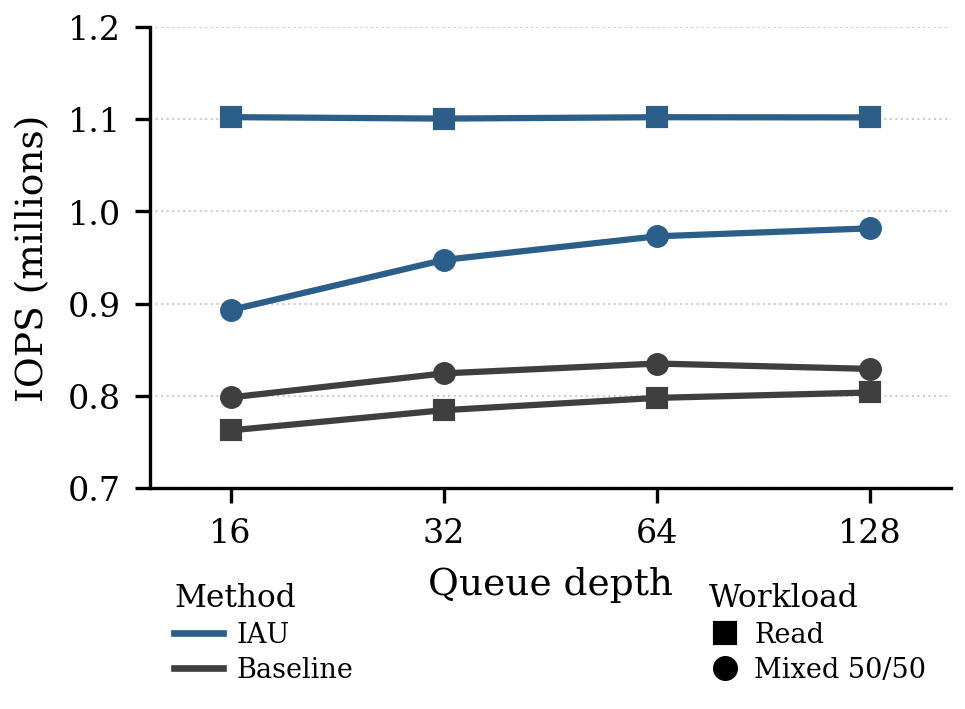
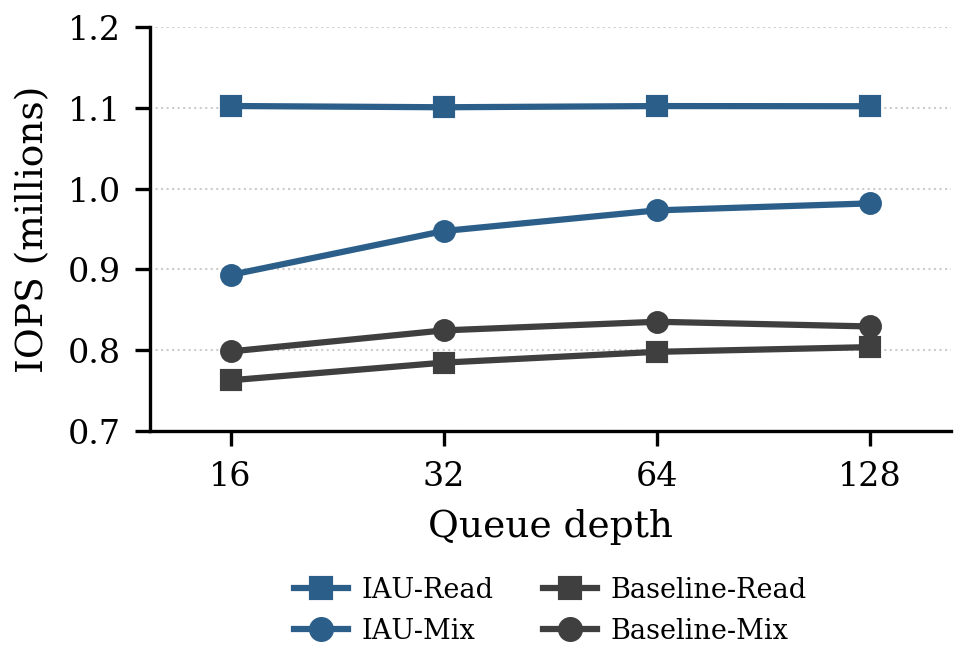
figures: single below-axis legend naming each op-mix curve
Replace the two split Method/Workload legends with one legend placed fully
below the x-axis, arranged in two columns so it does not overlap the axis
labels. Each entry now names a specific curve (IAU-Read, IAU-Mix,
Baseline-Read, Baseline-Mix) and carries that curve's real color and marker,
so every legend glyph maps one-to-one to a line on the plot.

diff --git a/scripts/plot_qd_sweep_opmix.py b/scripts/plot_qd_sweep_opmix.py
@@ -39,11 +39,12 @@ flipped, so op-mix is the sole independent variable.
 
 Encoding: method by color (IAU = accent blue, baseline = dark grey) and
 workload by marker shape (read = square, mixed = circle), so each of the four
-curves is a distinct color-and-shape pair and all lines are solid. The legend
-is split into a Method block (the two colors) and a Workload block (the two
-shapes) so each dimension is named on its own. Style otherwise matches
-scripts/plot_qd_sweep.py: serif, grey palette with one accent (#2b5f8a),
-300 dpi PNG + vector PDF.
+curves is a distinct color-and-shape pair and all lines are solid. A single
+legend sits fully below the x-axis and names each curve directly (IAU-Read,
+IAU-Mix, Baseline-Read, Baseline-Mix), each legend glyph carrying that curve's
+own color and marker so it matches the line on the plot. Style otherwise
+matches scripts/plot_qd_sweep.py: serif, grey palette with one accent
+(#2b5f8a), 300 dpi PNG + vector PDF.
 
 Usage
 -----
@@ -74,7 +75,6 @@ HOST_HZ = 2.0e9
 # Color encodes method, marker shape encodes workload.
 IAU_COLOR = ACCENT
 BASE_COLOR = GREY_DARK
-MARKER_SWATCH = "black"   # neutral colour for the shape legend, so it reads as shape not method
 
 # (label, marker, baseline csv, IAU csv)
 #
@@ -158,28 +158,23 @@ def plot(repo_root: Path, out_prefix: Path) -> None:
     ax.yaxis.grid(True, linestyle=":", linewidth=0.5, color=GREY_LIGHTER)
     ax.set_axisbelow(True)
 
-    # Two labelled legends so each encoding dimension is named on its own:
-    # color = method (IAU vs baseline), marker shape = workload (read vs mixed).
-    method_handles = [
-        Line2D([0], [0], color=IAU_COLOR, linewidth=1.6, label="IAU"),
-        Line2D([0], [0], color=BASE_COLOR, linewidth=1.6, label="Baseline"),
+    # One legend fully below the x-axis, each entry naming a specific curve.
+    # Every handle carries that curve's real color (method) and marker
+    # (workload), so the legend glyph matches the line on the plot.
+    combined_handles = [
+        Line2D([0], [0], color=IAU_COLOR, marker="s", linewidth=1.5,
+               markersize=5, label="IAU-Read"),
+        Line2D([0], [0], color=IAU_COLOR, marker="o", linewidth=1.5,
+               markersize=5, label="IAU-Mix"),
+        Line2D([0], [0], color=BASE_COLOR, marker="s", linewidth=1.5,
+               markersize=5, label="Baseline-Read"),
+        Line2D([0], [0], color=BASE_COLOR, marker="o", linewidth=1.5,
+               markersize=5, label="Baseline-Mix"),
     ]
-    workload_handles = [
-        Line2D([0], [0], color=MARKER_SWATCH, marker=m, linestyle="none",
-               markersize=5, label=lbl)
-        for lbl, m, _, _ in WORKLOADS
-    ]
-    leg_method = ax.legend(handles=method_handles, title="Method",
-                           loc="upper left", bbox_to_anchor=(0.0, -0.15),
-                           frameon=False, handlelength=1.8, handletextpad=0.5,
-                           labelspacing=0.3, title_fontsize=7.5)
-    leg_method._legend_box.align = "left"
-    ax.add_artist(leg_method)
-    leg_work = ax.legend(handles=workload_handles, title="Workload",
-                         loc="upper right", bbox_to_anchor=(1.0, -0.15),
-                         frameon=False, handlelength=1.2, handletextpad=0.5,
-                         labelspacing=0.3, title_fontsize=7.5)
-    leg_work._legend_box.align = "left"
+    ax.legend(handles=combined_handles, loc="upper center",
+              bbox_to_anchor=(0.5, -0.30), frameon=False, ncol=2,
+              handlelength=2.0, handletextpad=0.5, columnspacing=1.8,
+              labelspacing=0.5)
 
     fig.tight_layout()
     out_prefix.parent.mkdir(parents=True, exist_ok=True)
